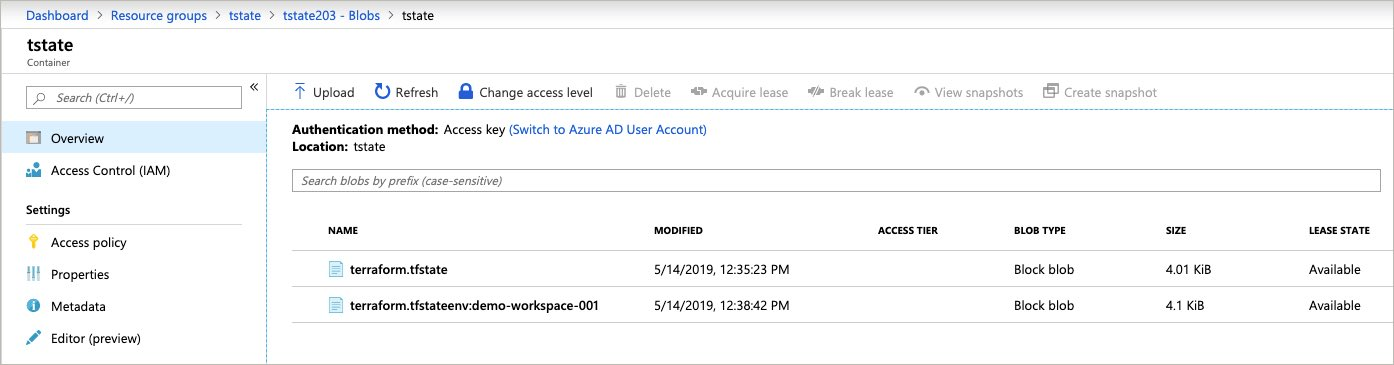
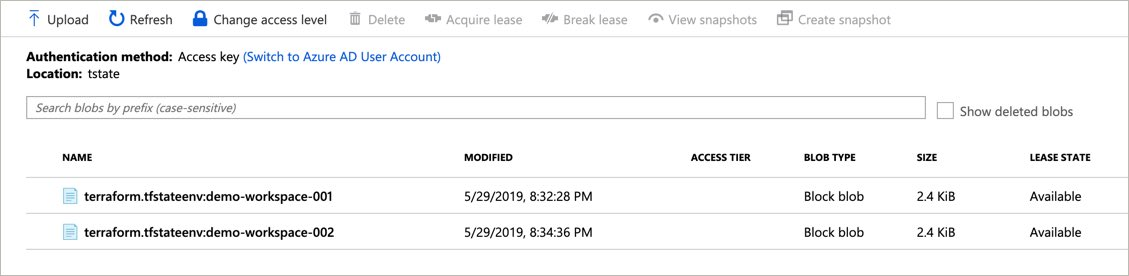
Updated module

Changed region(s): [[0.0, 0.4638, 1.0, 0.9565], [0.0, 0.0, 1.0, 0.4928], [0.0, 0.5507, 0.093, 0.6087]]

diff --git a/7-terraform-workspaces/README.md b/7-terraform-workspaces/README.md
@@ -6,13 +6,21 @@
 - Workspace interpolation
 - Workspaces on the backend
 
+## First Workspace
+
+List the Terraform workspaces with the `terraform workspace list` command. To start, you should have only the `default` workspace.
+
 ```
 terraform workspace list
 ```
 
+Create a new workspace with the `terraform workspace new` command.
+
 ```
 terraform workspace new demo-workspace-001
 ```
+
+Update the `hello-world` app configuration to interpolate the workspace name into the configuration. This can be done with the `${terraform.workspace}` syntax. In this example, the Azure resource group name and container fqdn are appended with the workspace name.
 
 ```
 resource "azurerm_resource_group" "vote-app" {
@@ -38,15 +46,90 @@ resource "azurerm_container_group" "vote-app" {
 }
 ```
 
+Create a new plan for the hello-world configuration.
+
 ```
 terraform plan --out plan.out
 ```
+
+Apply the plan.
+
 
 ```
 terraform apply plan.out
 ```
 
+## Second Workspace
+
+Create a second workspace with the `terraform workspace new` command.
+
+```
+terraform workspace new demo-workspace-002
+```
+
+Create a new plan for the hello-world configuration.
+
+
+```
+terraform plan --out plan.out
+```
+
+Apply the plan.
+
+
+```
+terraform apply plan.out
+```
+
+List the Terraform workspaces with the `terraform workspace list` command. You should now see the two new workspaces.
+
+```
+$ terraform workspace list
+
+  default
+  demo-workspace-001
+* demo-workspace-002
+```
+
+Taking a look at the backend, we can see the state file for each workspace.
+
 ![](../images/workspace-backend.jpg)
+
+## Remove Workspace
+
+To remove a workspace, first destroy the current configuration and delete the workspace.
+
+Switch to the `demo-workspace-001` workspace.
+
+```
+terraform workspace select demo-workspace-001
+```
+
+Destroy the configuration.
+
+```
+terraform destroy
+```
+
+Switch to the `default` workspace.
+
+```
+terraform workspace select default
+```
+
+Delete the `demo-workspace-001` workspace.
+
+```
+workspace delete demo-workspace-001
+```
+
+## Issues with workspaces
+
+Workspaces are great, but consider the following issues:
+
+- All state is stored in the same backend. This poses both an issue around access control and error-prone management experience.
+
+Consider using a well-formed directory structure with different backends for production level state isolation.
 
 ## Next Module
 

diff --git a/4-terraform-variables/README.md b/4-terraform-variables/README.md
@@ -7,9 +7,13 @@
 
 ## Create variables file
 
+Create a new file named `variables.tf`. This file will hold variables and default variable values that can be used in your Terraform configurations. A separate file for variables is optional. Variables can also be defined in the same files as your Terraform configurations.
+
 ```
 touch variables.tf
 ```
+
+Add these four variables.
 
 ```
 variable "resource_group" {
@@ -39,6 +43,9 @@ variable "container-name" {
 ```
 
 ## Update configuration to use variables
+
+Update the configuration so that it consums each variable. The syntax (pre 0.12.0) is `${var.variable-name}`. For post 0.12.0 syntax, swith to the [0.12.0 version of this workshop](./replace).
+
 
 ```
 resource "azurerm_resource_group" "vote-app" {
@@ -115,7 +122,7 @@ Use `terraform apply plan.out` to apply the plan.
 terraform apply plan.out
 ```
 
-Once the deployment has compelted, the output variable is displayed.
+Once the deployment has completed, the output variable is displayed.
 
 ```
 Outputs:

diff --git a/5-terraform-functions/README.md b/5-terraform-functions/README.md
@@ -2,19 +2,29 @@
 
 ## Module Overview
 
-- Inroducton to Terraform functions
+- Terraform functions
+
+## Use the Terraform console to experiment with Terraform functions
+
+Start the terraform console.
 
 ```
 terraform console
 ```
 
+Enter the following to run the `lower` function on the string `HELLO`).
+
 ```
 lower("HELLO")
 ```
 
+Enter the following to run the `substr` function on the long string.
+
 ```
 substr("ThisIsALongStfunctions-demongThatWouldFailAsAnAzureStorageAccountName", 0, 6)
 ```
+
+The following example combines both the `lower` and `substr` functions.
 
 ```
 lower(substr("ThisIsALongStfunctions-demongThatWouldFailAsAnAzureStorageAccountName", 0, 6))

diff --git a/2-hello-world/README.md b/2-hello-world/README.md
@@ -20,8 +20,6 @@ cd vote-app
 
 Create a file named `main.tf` and copy in the following configuration. This configuration includes a single resource block that creates an Azure Resource Group.
 
-AUTHORING NOTE: Expand on HCL format here.
-
 ```
 resource "azurerm_resource_group" "vote-app" {
   name     = "vote-app"
